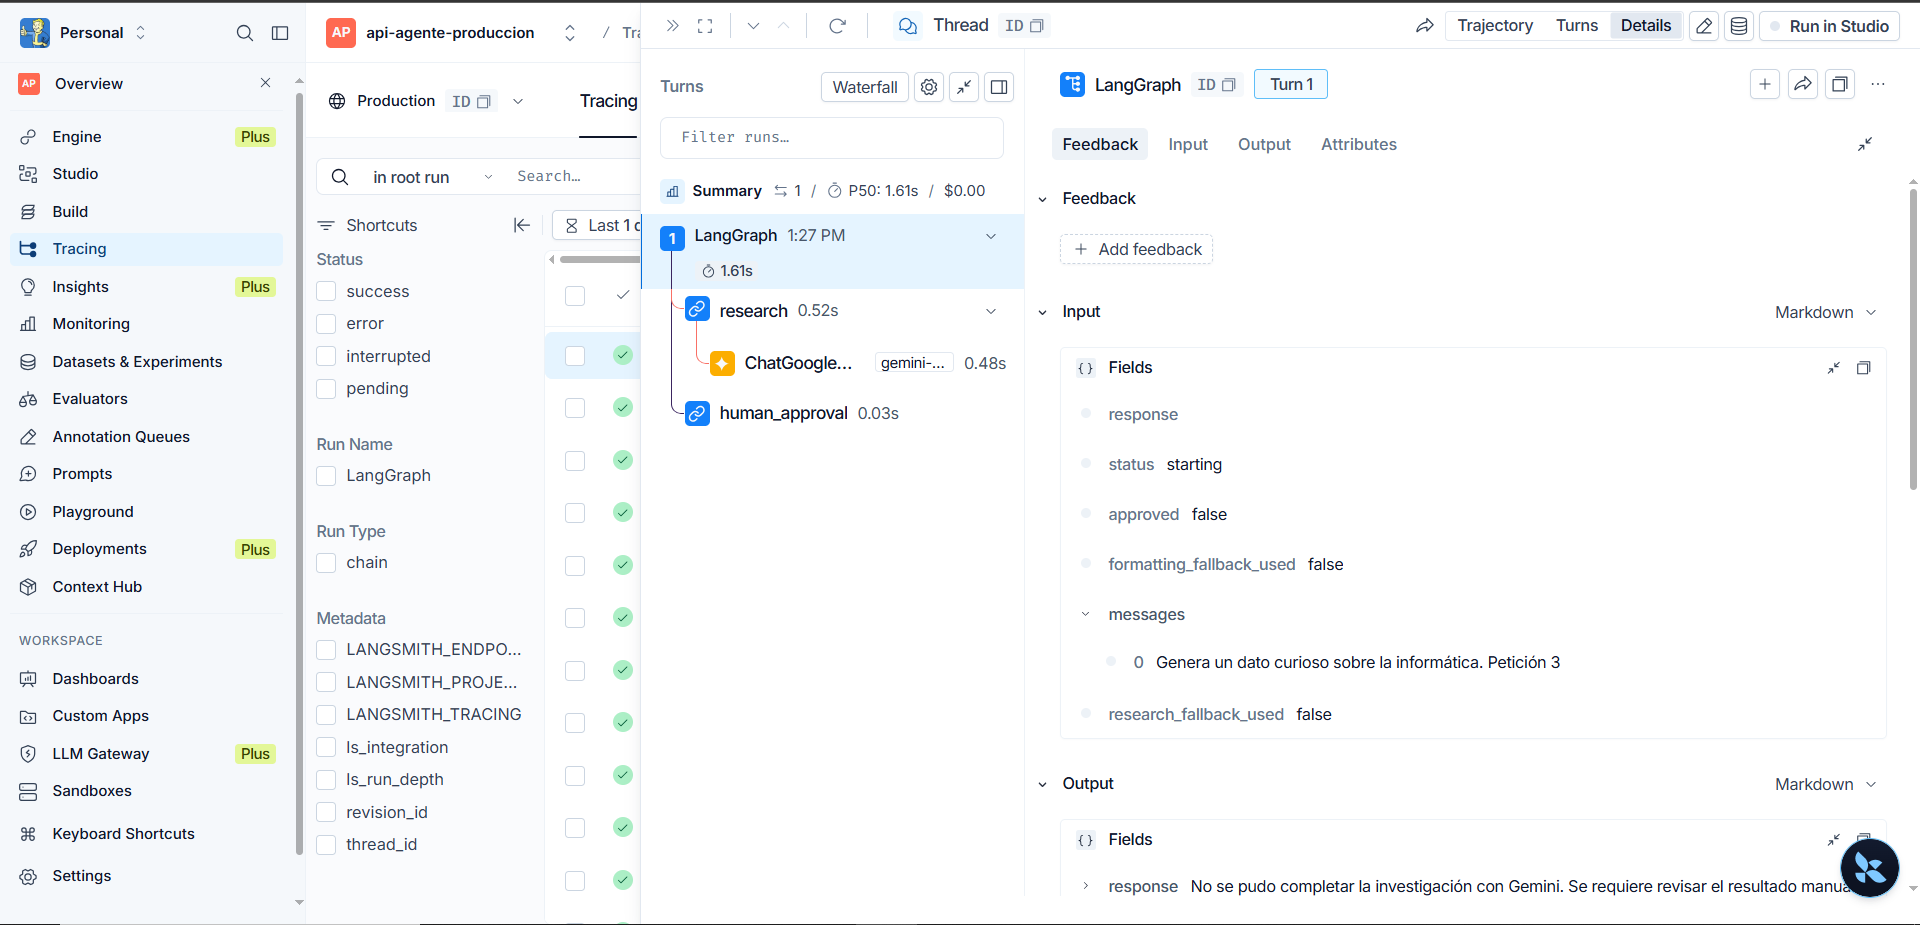
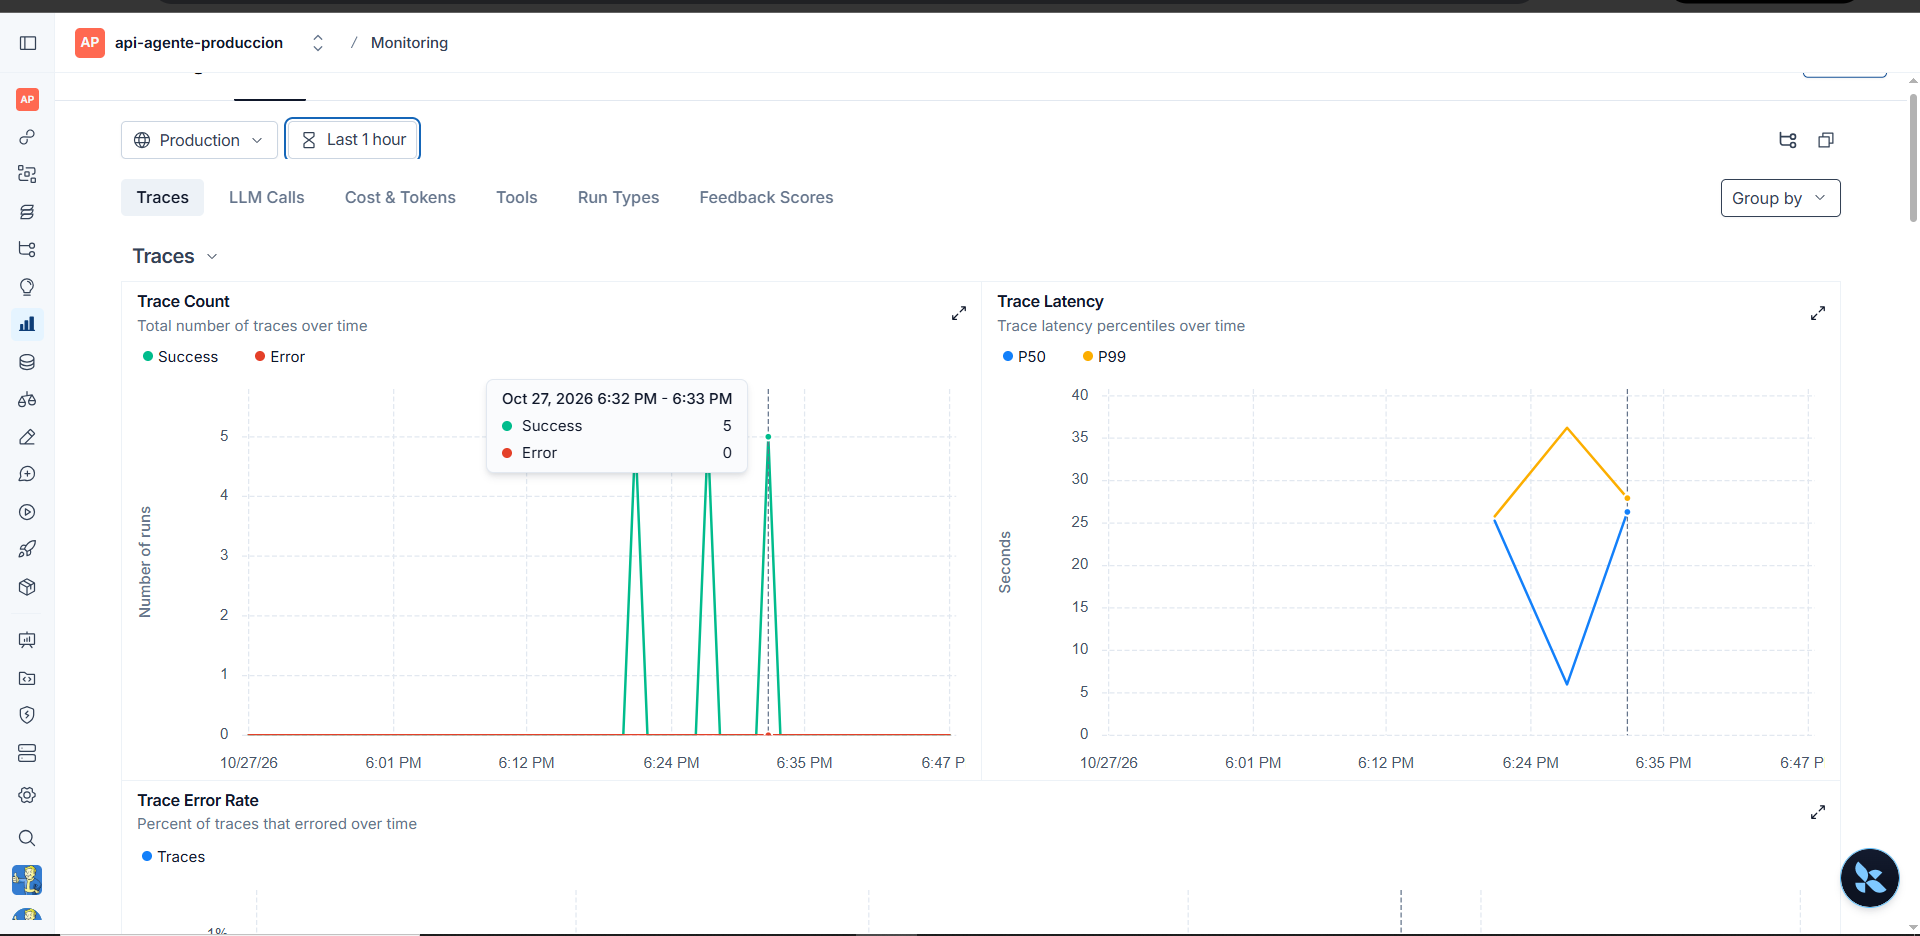
docs: actualiza README con evidencias definitivas de métricas P95 y trazas

diff --git a/test.py b/test.py
@@ -2,27 +2,53 @@ import asyncio
 import httpx
 import time
 
-async def enviar_peticion(cliente, i):
+async def enviar_y_monitorear(cliente, i):
+    # 1. Retraso escalonado (3 segundos x índice) para evitar el Error 429 de Gemini
+    await asyncio.sleep(i * 3)
+    
     url = "http://127.0.0.1:8000/tasks"
     payload = {
-        "prompt": f"Genera un dato curioso sobre la informática. Petición {i}",
+        "prompt": f"Genera un dato curioso sobre la historia del hardware. Petición {i}",
         "requires_approval": False
     }
-    print(f"Lanzando petición {i}...")
+    
+    print(f"[{i}] Lanzando petición...")
     response = await cliente.post(url, json=payload)
-    return response.json()
+    
+    # 2. Comprobar que FastAPI responde de forma asíncrona correctamente (Requisito del profesor)
+    if response.status_code != 202:
+        print(f"[{i}] ❌ Error en la API: Código {response.status_code}")
+        return None
+        
+    job_data = response.json()
+    job_id = job_data.get("job_id")
+    print(f"[{i}] Aceptada (202 Accepted). Job ID: {job_id}. Monitoreando estado...")
+    
+    # 3. Polling para confirmar que el trabajo no caiga en fallback y termine bien
+    while True:
+        await asyncio.sleep(2) # Espera antes de volver a consultar
+        res_estado = await cliente.get(f"{url}/{job_id}")
+        estado_actual = res_estado.json().get("status")
+        
+        if estado_actual == "DONE":
+            print(f"[{i}] ✅ Trabajo completado con éxito (DONE).")
+            break
+        elif estado_actual in ["FAILED", "REJECTED"]:
+            print(f"[{i}] ⚠ El trabajo terminó en estado: {estado_actual}.")
+            break
+            
+    return job_id
 
 async def main():
     inicio = time.time()
-    async with httpx.AsyncClient() as cliente:
-        tareas = [enviar_peticion(cliente, i) for i in range(1, 6)]
-        resultados = await asyncio.gather(*tareas)
+    # Aumentamos el timeout del cliente por si la IA demora en responder
+    async with httpx.AsyncClient(timeout=30.0) as cliente:
+        # Creamos y ejecutamos las 5 tareas concurrentes
+        tareas = [enviar_y_monitorear(cliente, i) for i in range(1, 6)]
+        await asyncio.gather(*tareas)
     
     fin = time.time()
-    print(f"\n¡Prueba terminada en {fin - inicio:.2f} segundos!")
-    print("Resultados de los jobs generados:")
-    for res in resultados:
-        print(res)
+    print(f"\n¡Prueba de carga y monitoreo finalizada en {fin - inicio:.2f} segundos!")
 
 if __name__ == "__main__":
     asyncio.run(main())

diff --git a/README.md b/README.md
@@ -14,8 +14,9 @@ curso_ia--entrega_7/
 │   ├── worker.py                # Worker asíncrono, AsyncRedisSaver y Command(resume)
 │   └── observability.py         # Configuración de trazas e instrumentación de LangSmith
 ├── screenshots/
-│   ├── trazas.png               # Evidencia del árbol de nodos y ejecuciones del agente
-│   └── metricas_langsmith.png   # Latencia P95, costos y cinco ejecuciones en paralelo
+│   ├── trazas.png               # Evidencia de las 5 ejecuciones concurrentes exitosas del agente
+│   ├── metricas_costo.png       # Evidencia del consumo real de tokens y costo total
+│   └── metricas_p95.png         # Evidencia del rendimiento con el percentil de latencia P95 exacto
 ├── .env.example                 # Plantilla de variables de entorno
 ├── .gitignore                   # Exclusión de credenciales, entornos virtuales y cachés
 ├── Dockerfile                   # Imagen Docker de la API
@@ -184,28 +185,24 @@ El objetivo es verificar que la API responda con el código HTTP `202 Accepted` 
 
 Las evidencias de monitoreo se encuentran en la carpeta `screenshots/`.
 
-### 1. Métricas de carga y costo
-
-Archivo: `screenshots/metricas_p95_costo.png`
-
-La captura está destinada a mostrar:
-
-- El resultado de cinco ejecuciones concurrentes.
-- La cantidad de ejecuciones exitosas y fallidas.
-- El costo registrado por las ejecuciones.
-- Los percentiles de latencia, incluido P95.
-
-### 2. Trazas del agente
-
+### 1. Trazas y concurrencia
 Archivo: `screenshots/trazas.png`
+La captura documenta las trazas de ejecución asíncrona del agente, demostrando:
+- El resultado de cinco ejecuciones concurrentes exitosas (Success: 5, Error: 0).
+- El recorrido entre los nodos del grafo (`research_node`, `human_approval`, `formatting_node`).
 
-La captura permite documentar las trazas de ejecución y el recorrido entre los nodos del grafo, incluidos:
+### 2. Métricas de consumo y costo
+Archivo: `screenshots/metricas_costo.png`
+Esta evidencia valida el uso real del modelo en LangSmith tras solucionar los límites de cuota, mostrando:
+- El consumo de tokens (Output Tokens) de las cinco peticiones procesadas.
+- El costo total (Total Cost) facturado por la API de Gemini.
 
-- `research_node`
-- `human_approval`
-- `formatting_node`
+### 3. Latencia P95
+Archivo: `screenshots/metricas_p95.png`
+Panel analítico personalizado que comprueba el rendimiento del sistema, incluyendo:
+- El gráfico de latencia configurado explícitamente en el percentil P95 exigido por la rúbrica.
 
-Las métricas y los resultados descritos deben coincidir con los datos reales registrados en LangSmith.
+Las métricas y los resultados descritos coinciden con los datos reales de la prueba concurrente registrados en LangSmith.
 
 ---
 
